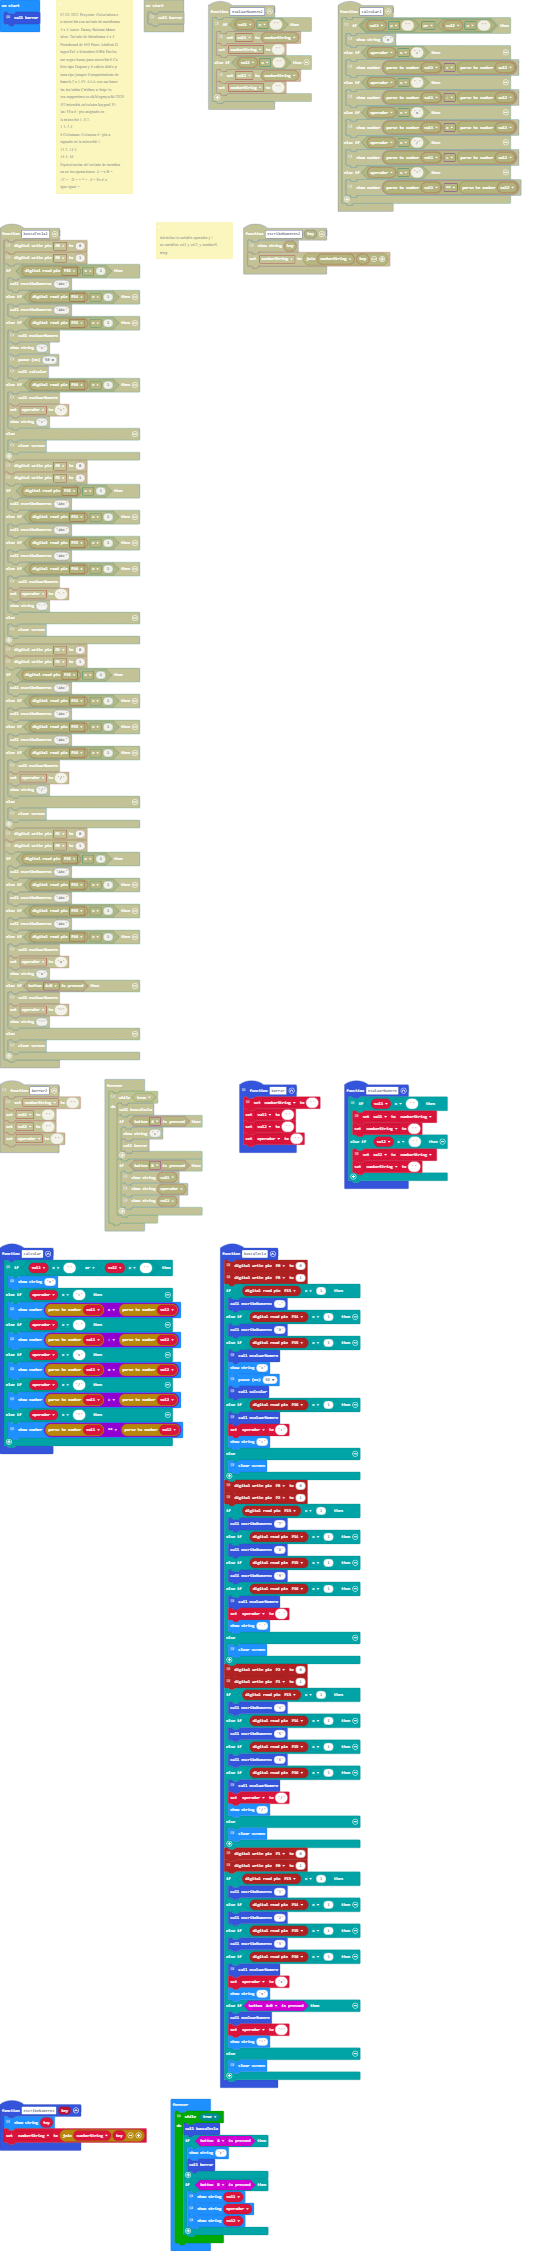
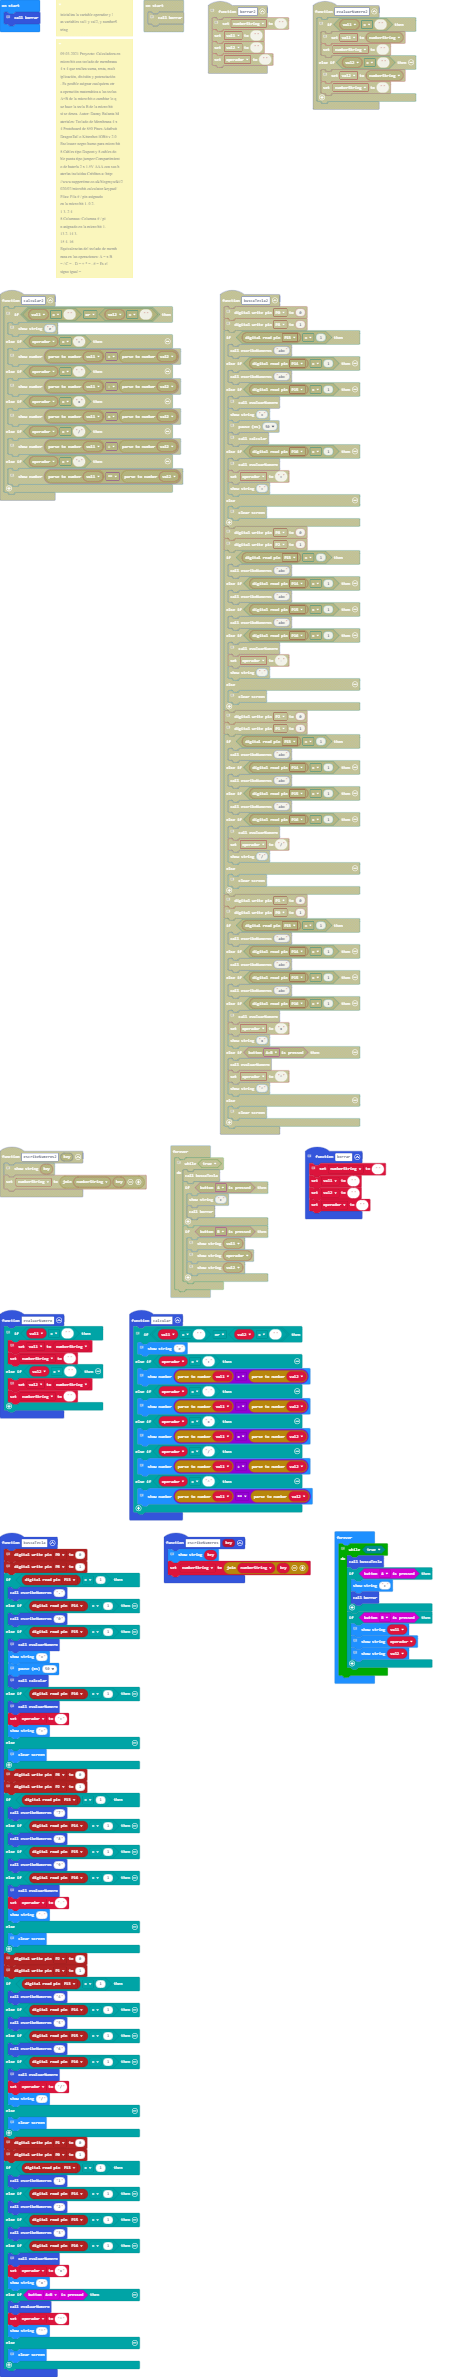
Update pxt.json, main.blocks, main.ts

diff --git a/main.ts b/main.ts
@@ -1,6 +1,3 @@
-/**
- * inicializa la variable operador y las variables val1 y val2, y numberString
- */
 // llama la función borrar
 function borrar () {
     // llama la función borrar y limpia la memoria
@@ -39,7 +36,7 @@ function calcular () {
         // Realiza la división de lo almacenado en val1 y val2
         basic.showNumber(parseFloat(val1) / parseFloat(val2))
     } else if (operador == "^") {
-        // Realiza la potencia de lo almacenado en val1 y val2
+        // Realiza la potencia de lo almacenado entre val1 y val2 siendo la operación val1 elevado a val2
         basic.showNumber(parseFloat(val1) ** parseFloat(val2))
     }
 }
@@ -140,9 +137,9 @@ function escribeNumeros (key: string) {
     numberString = "" + numberString + key
 }
 /**
- * 07-03-2021
+ * 09-03-2021
  * 
- * Proyecto: Calculadora en micro:bit con teclado de membrana 4 x 4
+ * Proyecto: Calculadora en micro:bit con teclado de membrana 4 x 4 que realiza suma, resta, multiplicación, división y potenciación. Es posible asignar cualquiera otra operación matemática a las teclas A+B de la micro:bit o cambiar lo que hace la tecla B de la micro:bit si se desea.
  * 
  * Autor: Danny Balanta
  * 
@@ -152,7 +149,7 @@ function escribeNumeros (key: string) {
  * 
  * Protoboard de 850 Pines
  * 
- * Adafruit DragonTail o Kittenbot IOBit
+ * Adafruit DragonTail o Kittenbot IOBit v 2.0
  * 
  * Enclosure negro humo para micro:bit
  * 
@@ -199,6 +196,9 @@ function escribeNumeros (key: string) {
  * * = .
  * 
  * # = Es el signo igual =
+ */
+/**
+ * inicializa la variable operador y las variables val1 y val2, y numberString
  */
 let operador = ""
 let val2 = ""
